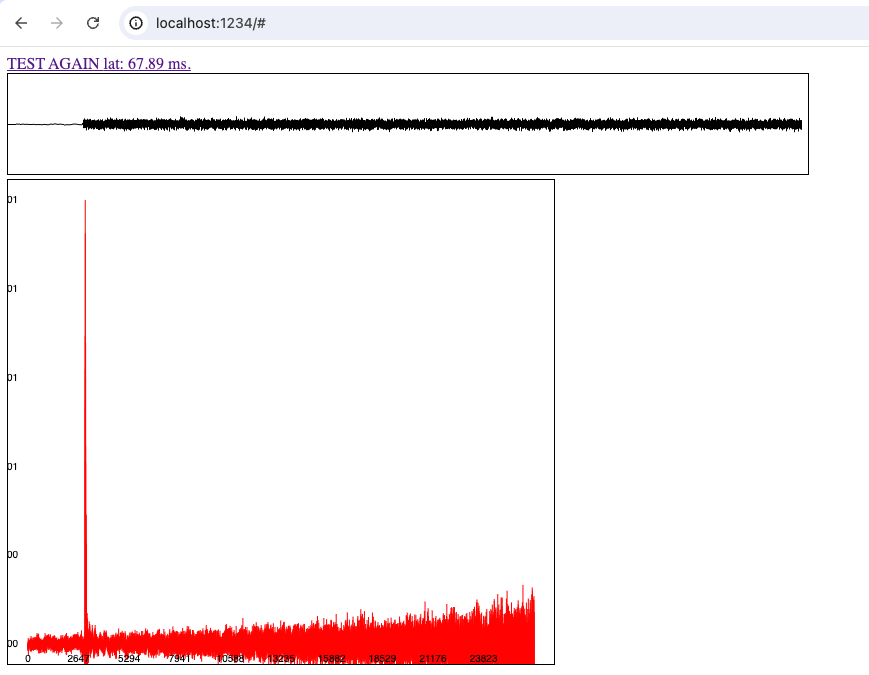
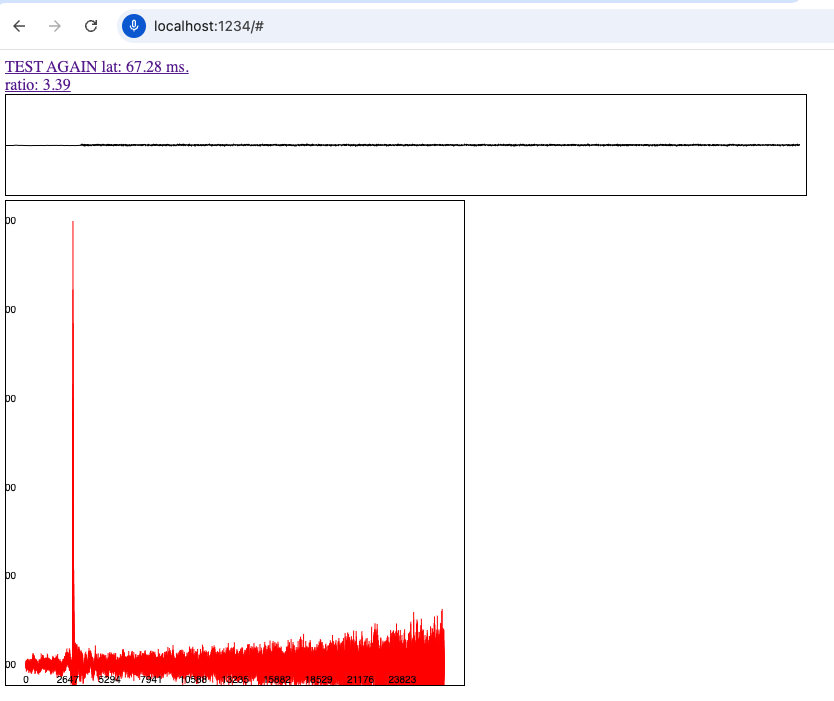
add ratio based on energy to obtain a threshold to determine if test was right or wrong

Changed region(s): [[0.0, 0.0, 0.9353, 0.9956], [0.0935, 0.1244, 0.9664, 0.2178]]

diff --git a/src/scripts/test.js b/src/scripts/test.js
@@ -176,7 +176,7 @@ export class TestLatencyMLS {
                 channel: message.data.channel
             })
         }
-        if(message.data.peakValue){                
+        if(message.data.peakValuePow){                 
             TestLatencyMLS.displayresults(message.data, TestLatencyMLS.signalrecorded, TestLatencyMLS.noiseBuffer, TestLatencyMLS.correlation)
         }
     }
@@ -228,11 +228,15 @@ export class TestLatencyMLS {
        
         if(peak.channel === 0){
             const roundtriplatency = Number(peak.peakIndex / mlssignal.sampleRate * 1000).toFixed(2)
-            const ratioIs = peak.peakValue / peak.mean
+            const ratioIs = Math.log10(peak.peakValuePow / peak.mean)
             console.log('Corr Ratio', ratioIs)
+            if(ratioIs <= 1.8){
+                console.error('The Latency Test did not go well, there could be an issue with the audio settings')
+            }
             //console.log('Corr ABS(Ratio)', Math.abs(ratioIs))
             TestLatencyMLS.startbutton.innerText = 'TEST AGAIN '
-            TestLatencyMLS.startbutton.innerHTML += `<span class='badge badge-info'>lat: ${roundtriplatency} ms.</span>`
+            TestLatencyMLS.startbutton.innerHTML += `<span class='badge badge-info'>lat: ${roundtriplatency} ms.</span><br>`
+            TestLatencyMLS.startbutton.innerHTML += `<span class='badge badge-light'>ratio: ${ratioIs.toFixed(2)}</span>`
             if(TestLatencyMLS.debugCanvas) {
                 console.log('Channel', peak.channel )
                 console.log('Latency = ', roundtriplatency + ' ms')
@@ -255,7 +259,7 @@ export class TestLatencyMLS {
             console.log('Channel', peak.channel )
             const roundtriplatency = peak.peakIndex / mlssignal.sampleRate * 1000
             console.log('Latency = ', roundtriplatency + ' ms')
-            const ratioIs = peak.peakValue / peak.mean
+            const ratioIs = Math.log10(peak.peakValuePow / peak.mean)
             console.log('Corr Ratio', ratioIs)
             drawResults(signalrecorded.getChannelData(1),  'rightChannelCanvas', 'autocorrelationCanvas2', TestLatencyMLS.correlation)
         }      

diff --git a/src/scripts/worker.js b/src/scripts/worker.js
@@ -26,17 +26,18 @@ addEventListener('message', (message) => {
   }
   
   function findPeakAndMean(array, channel) {
-    let peakValue = array[0]
     let peakIndex = 0
-    let sum = 0
+    let energy = 0
+    let peakValuePow = Math.pow(array[0], 2)
   
     for (let i = 1; i < array.length; i++) {
-      if (array[i] > peakValue) {
-        peakValue = array[i]
-        peakIndex = i
-      }
-      sum += array[i]
+        const samplePow = Math.pow(array[i], 2)
+        if (samplePow > peakValuePow) {
+            peakValuePow = samplePow
+            peakIndex = i
+        }
+        energy += samplePow
     }
-    const mean = sum / array.length
-    postMessage({ peakValue, peakIndex, mean, channel })
+    const mean = energy / array.length
+    postMessage({ peakValuePow, peakIndex, mean, channel })
   }

diff --git a/README.md b/README.md
@@ -4,6 +4,8 @@ The following repository is a Proof Of Concept to measure the latency in modern 
 The app will play and record the MLS noise using the Web Audio API and will compute the cross correlation to estimate the delay. 
 A graph is also displayed showing the resulting peak of the cross correlation and the wave form of audio data recorded.
 
+As a mechanism to validate if the test went well or not, the ratio operation is introduced to calculate the relation between the peak and the rest of the signal in terms of energy. After running some tests a threshold of 1.8 aprox has been set, which means all ratios above that value are linked to a nice latency estimation and below are probably wrong.
+
 ![screenshot](doc/test_result.png)
 
 ## How to run it locally:
